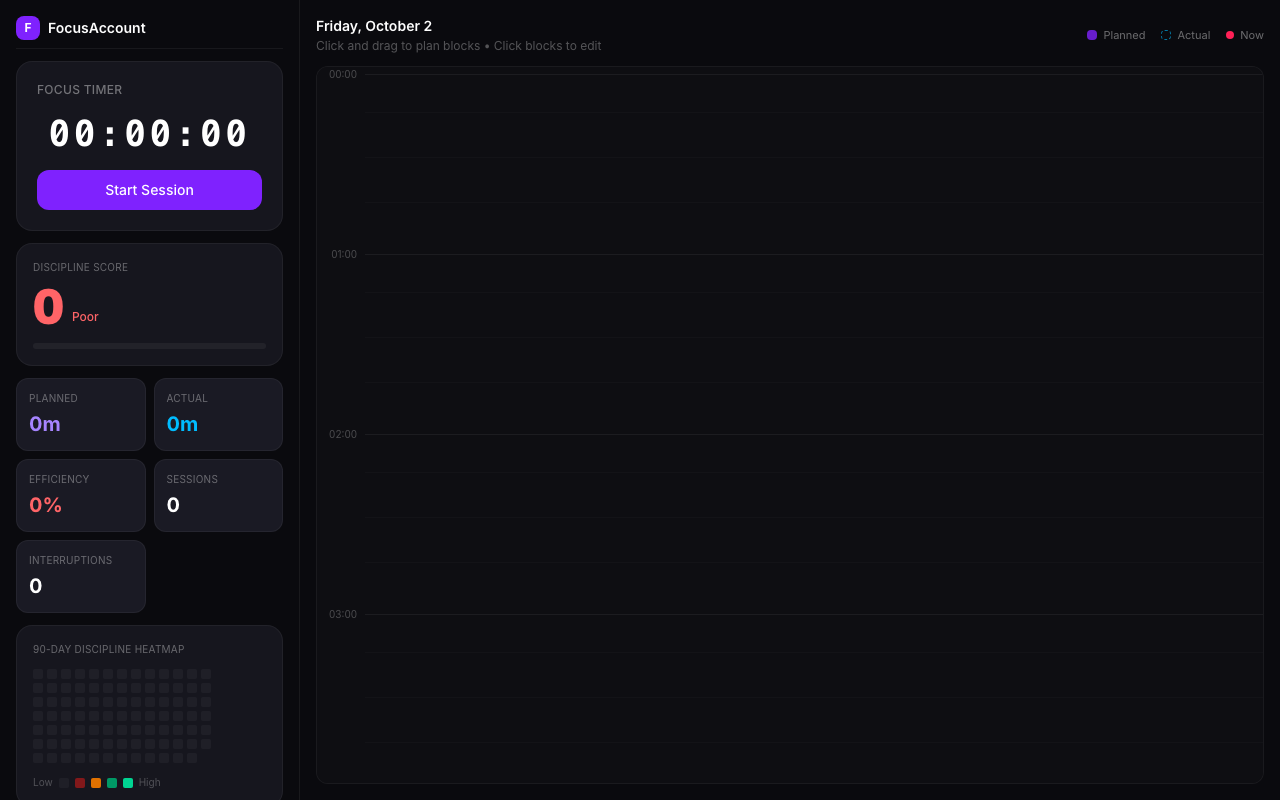
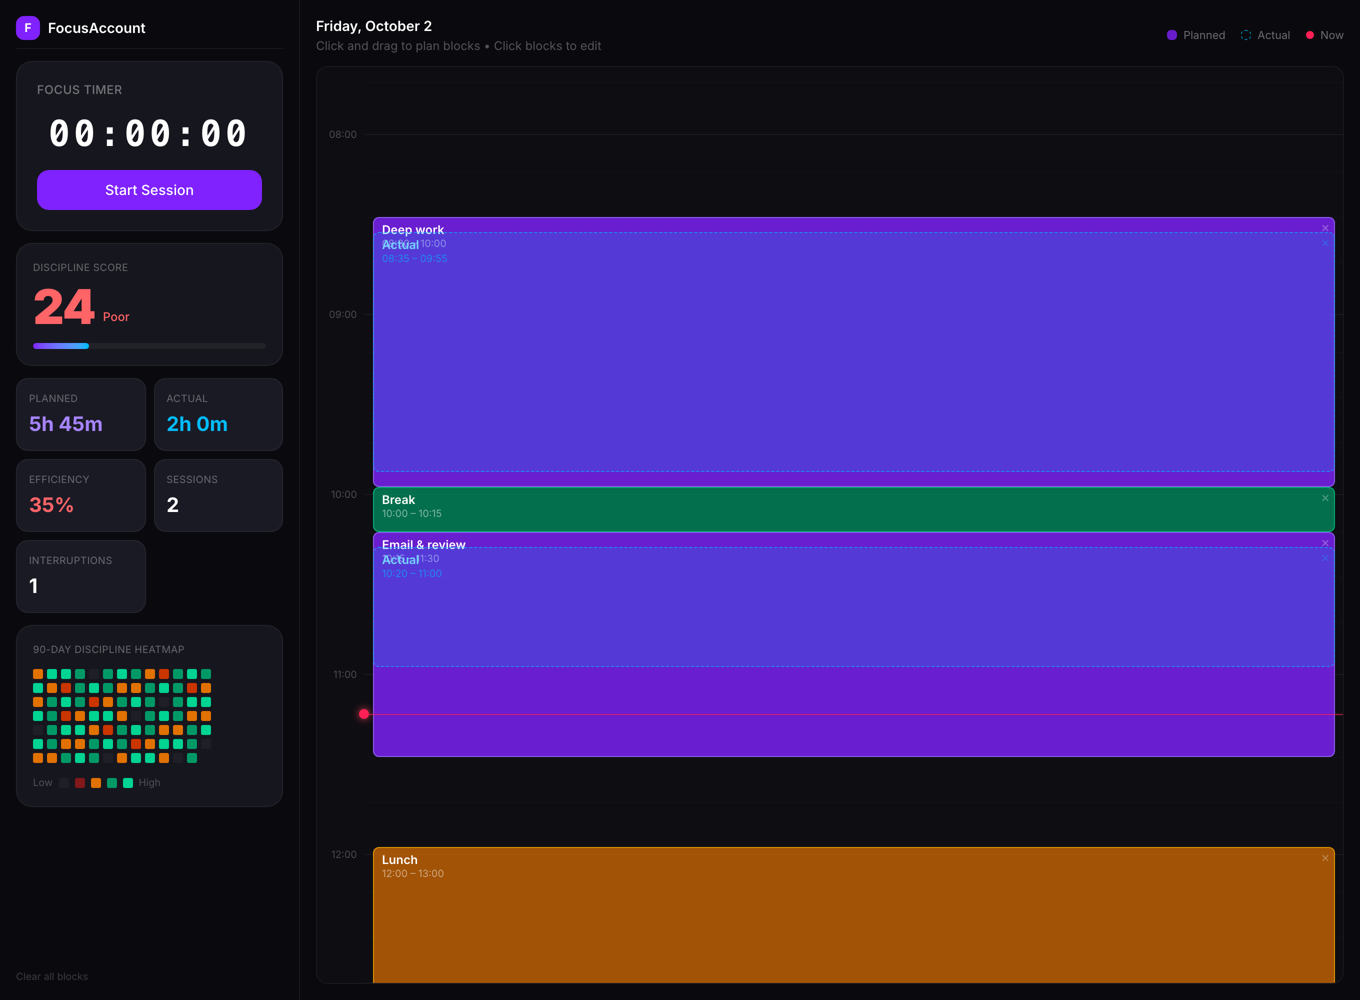
docs: replace empty-state screenshot with one showing sample data

diff --git a/README.md b/README.md
@@ -13,7 +13,7 @@ An accountability-driven focus tracker. Plan your day visually, track real work 
 
 ## Screenshots
 
-![Daily planner and focus timer](docs/screenshots/focus.png)
+![Day timeline with planned blocks vs actual sessions, plus focus timer and 90-day heatmap (sample data)](docs/screenshots/focus.png)
 
 ## Architecture
 
